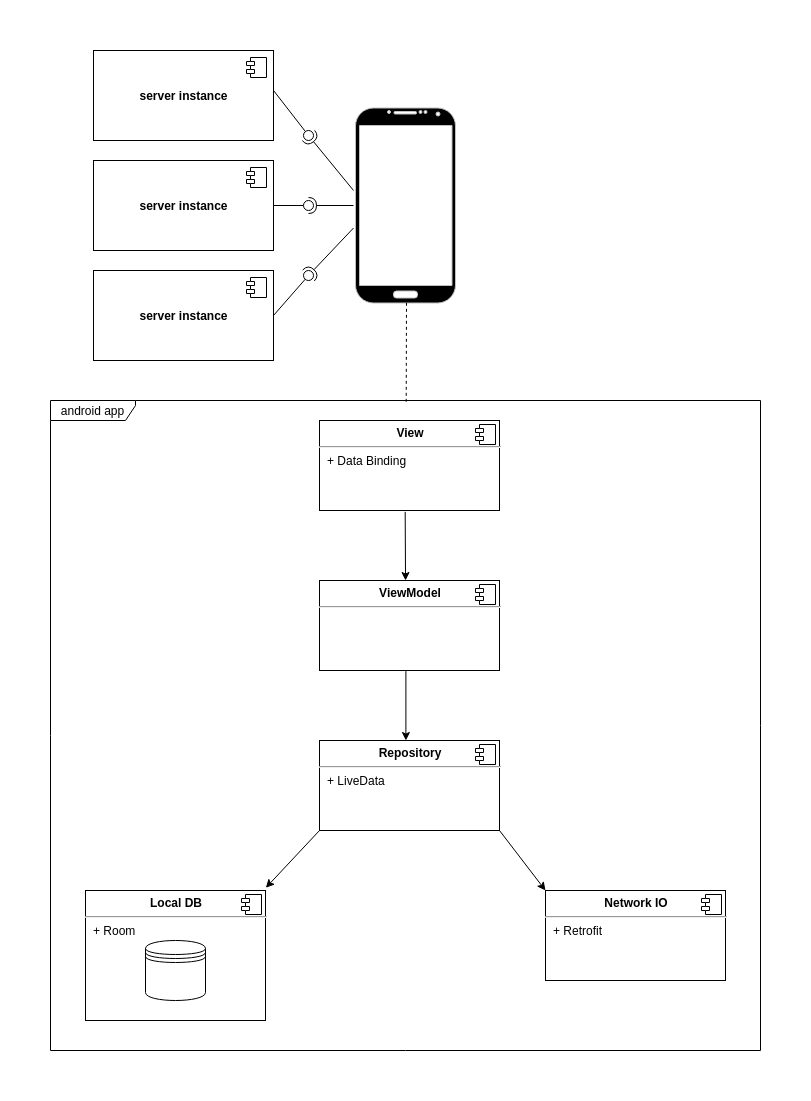
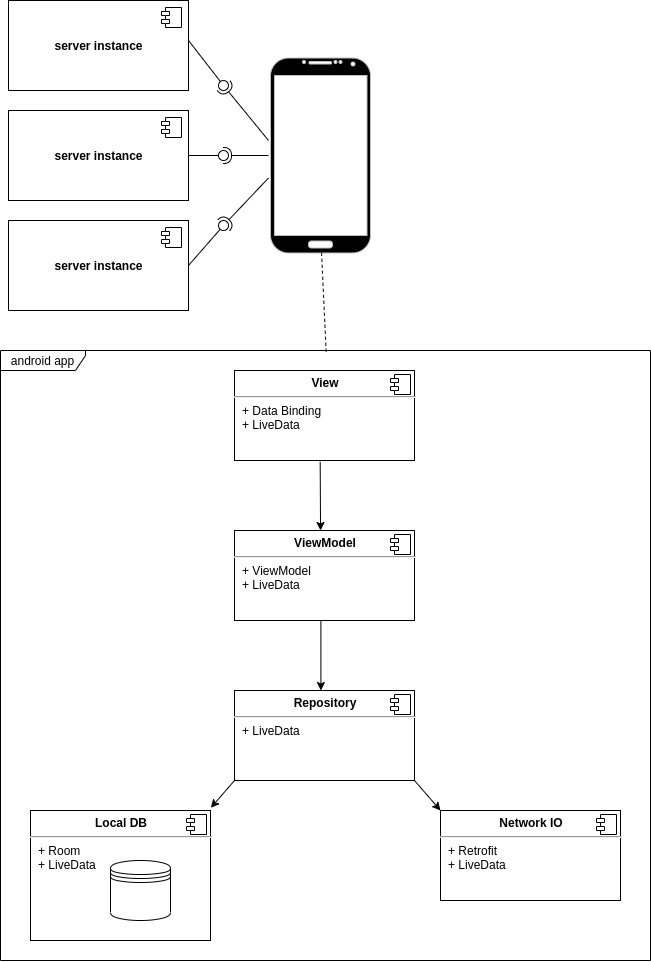
Big update

diff --git a/chapters/architecture.tex b/chapters/architecture.tex
@@ -1,30 +1,123 @@
+% https://www.youtube.com/watch?v=ugpC98LcNqA
+% https://www.youtube.com/watch?v=QrbhPcbZv0I
+
 \section{Software architecture patterns}
-//TODO
+Every non trivial software project should follow some architecture design.
+But why? You want your project to be always maintainable and expandable as much easily as possible.
+You want to modularize it, so that you can just take one part and exchange it without the need of rewriting the whole project.
+And for this reason, there are architecture patterns.
+I will describe three of them and explain my conclusion.
+
+All of these three patterns have one thing in common.
+They structure code into three main layers.
+The names of those layers are present in these pattern's names.
 
 \subsection{MVC}
-//TODO
+
+\begin{figure}\centering
+	\includegraphics[width=1\textwidth]{pics/patterns/bc-mvc2.png}
+	\caption[MVC]{Model View Controller}\label{fig:mvc}
+\end{figure}
+
+\textbf{Model View Controller}.
+View is responsible for displaying data, controller is responsible for getting the user input and model for storing data.
+The controller takes user input, it updates the model and then tells the view to update itself.
+
+Now we know, that if we choose this, it will be implemented in android.
+How does one do this? In the android world, the part of application responsible for displaying things is also responsible for dealing with user input.
+So you tweak the pattern so the view gets the user input, it sends it to the controller, the controller updates the model, then tells the view to update itself, based on the data from model.
+
+So both view and controller know the model, the view knows controller and controller knows view.
+That's pretty bad, you don't want this.
+That's high consistency and that is a thing you want to avoid, especially in the android world, where forgetting to remove a link can and will cause memory leaks.
+
+And what if you want to somehow transform the data for presentation?
+What part should do this presentation transformation, also known as UI logic?
+You don't want to push this to the view, because you want the UI logic also to be easily testable and you want to separate it from the appearance of the view.
+Controller can not posses it neither, because it doesn't supply any data to the view. So should you put it in the model? Absolutely not!
+Why should a part of the application, responsible for data storing, know how to display stuff?
 
 \subsection{MVP}
-//TODO
+
+\begin{figure}\centering
+	\includegraphics[width=0.7\textwidth]{pics/patterns/bc-mvp.png}
+	\caption[MVP]{Model View Presenter}\label{fig:mvp}
+\end{figure}
+
+Imagine the MVC and the UI logic problem.
+Now what if the view doesn't communicate with the model, but only with controller and the controller was also responsible for taking data from the model and supplying them to the view.
+Then you would be able to put UI logic to this new controller. Now we will call it presenter, instead of new controller.
+And that's what \textbf{Model View Presenter} is.
+
+But that means the presenter still holds a link to the view. You still need to write some repetitive code because of this.
+Second, why would the presenter should know, what parts of the view should be updated after the data changes?
 
 \subsection{MVVM}
-//TODO
 
-\subsection{Conclusion}
-//mvvm
-//TODO
+\begin{figure}\centering
+	\includegraphics[width=0.7\textwidth]{pics/patterns/bc-mvvm.png}
+	\caption[MVVM]{Model View ViewModel}\label{fig:mvvm}
+\end{figure}
 
-\section{Main components and libraries}
-//TODO
+\textbf{Model View Viewmodel}.
+We will borrow the MVP and tweak it a little. Currently the presenter knows the view and is executing it's methods when it needs to be updated.
+Let's rename presenter to viewmodel. It no longer knows it's view.
+Instead it provides some kind of stream and the view can observe the stream, so it can do whatever whenever it omits any data.
+
+So the view knows the viewmodel, can call it's methods on user input and observe it's data streams.
+The viewmodel knows model, observes it's data streams and omits them to the view.
+The view knows the viewmodel, the viewmodel knows the model and the model don't know any of them.
+
+\subsection{And the winner is ...}
+Our choice is MVVM. Not only it looks like the tip of the evolution, but Google even made some libraries to support it.
+
+\section{Main layers and libraries}
+We will go over the three main layers of the MVVM, add a fourth at the end and describe some libraries that will be used inside of them.
 
 \subsection{View}
-//TODO
+As I said before, the view is the layer responsible for displaying data. It's what I call a screen in functional requirements.
+The way it's implemented is through a combination of standard kotlin code and xml.
+The xml is like a skeleton and kotlin is like life. In xml, you specify the look and in kotlin, you can specify what data it should display, how to update itself and what to do with user input.
+
+For that, you have to somehow link or bind these two things (xml and kotlin) together.
+We will be using a library called Data Binding. It's better than nothing and compared to other solutions, like kotlin's synthetics, Data Binding offers more features and I personally think it looks clearer.
 
 \subsection{Viewmodel}
-//TODO
+Google has made some architecture components and one of them is exactly for viewmodel.
+It will be shame not to use it.
 
 \subsection{Repository}
-//TODO
+Repository will represent the model.
+It's a place responsible for maintaining data.
+Does the application need to download them, or load from cache?
+Do you need to get anything out of the application or get anything in it?
+You will ask the repository, also known as the one and the only source of truth.
 
-\subsection{DAO and network}
-//TODO
+\subsection{DAO and network IO}
+This will be the fourth layer.
+Every android app can run it's own LiteSQL database.
+Data Access Objects will be used to access data in in this database.
+There is a nice library for that called Room and we will be using it.
+Network IO layer will be responsible for communication with server instance API.
+We will be using Retrofit library for those API requests.
+Repository will be using both of those in order to maintain and organise data.
+
+\subsection{LiveData}
+LiveData is a library.
+It will be used in each layer.
+Previously I talked about observing some kind of stream.
+For this, you need some kind of observable variables and that's what LiveData is.
+It enables you to set some action to happen when the data changes.
+LiveData is now just some dumb stream, it only streams, when there is some observer living.
+It may sound silly, but for example, you don't need to update certain screen, when that screen is not visible.
+
+\section{Conclusion}
+
+\begin{figure}\centering
+	\includegraphics[width=1\textwidth]{pics/bc-architecture.png}
+	\caption[Architecture]{Diagram consisting of MVVM and server instances}\label{fig:architecture}
+\end{figure}
+
+For better perspective, here is a summarizing diagram: \ref{fig:architecture}
+
+The android device will communicate directly with multiple server instances. Network IO layer will be responsible for this communication. Repository will cache it using the Local DB layer and hand out data to the viewmodel. Viewmodel can do any UI logic that's needed and pass it to the view. All handing out or passing from any bottom layer to the one on top will be done through the observation of LiveData.

diff --git a/chapters/ui.tex b/chapters/ui.tex
@@ -1,0 +1,106 @@
+\section{The three main screens}
+From specifications, it's clear that we need at least one screen for execution history, one for pipelines and one for settings.
+On the android platform, there are multiple navigation designs.
+
+\subsection{Navigation drawer}
+The hamburger icon at the top left and sliding menu from left to the right.
+If you have 5 or more top level screens, or if you want to have some sort of hierarchical menu, this might be the right choice for you, but that's not our case. We have only three main screens.
+Also, with the increasing sizes of mobile phones and most people being right-handed, it's hard to reach the hamburger menu with your right thumb.
+
+\subsection{Bottom navigation}
+Three to five icons, optionally with text, at the bottom of the screen.
+It solves the annoying problem with short thumb, because you no longer need to reach the top left corner with it.
+Material design states, that the recommended number of links is three to five. That sounds good.
+For now, it is one possibility.
+% But another recommendation is to make it consistent in a way, that it is visible from all screens.
+
+\subsection{Tabs}
+Slidable tabs on top of the screen.
+Recommendation is at least two screens.
+You can click on tab names or you can just slide left or right in order to navigate between the screens.
+It is another possibility.
+
+\subsection{Conclusion}
+The choice is either bottom navigation or tabs.
+I'm choosing tabs, because I like the idea of having an option to slide between the screens, rather than to be forced to only click.
+
+%\begin{figure}
+%	\includegraphics[width=0.3\textwidth]{pics/xd/History.png}
+%	\caption[History]{History screen design}\label{fig:xdHistory}
+%	\includegraphics[width=0.3\textwidth]{pics/xd/Pipelines.png}
+%	\caption[Pipelines]{Pipelines screen design}\label{fig:xdPipelines}
+%	\includegraphics[width=0.3\textwidth]{pics/xd/Settings.png}
+%	\caption[Settings]{Settings screen design}\label{fig:xdSettings}
+%\end{figure}
+
+\begin{figure}\centering
+    \begin{minipage}[b]{0.32\textwidth}
+    	\includegraphics[width=\textwidth]{pics/xd/History.png}
+    	\caption[History]{History screen design}\label{fig:xdHistory}
+    \end{minipage}
+    \begin{minipage}[b]{0.32\textwidth}
+    	\includegraphics[width=\textwidth]{pics/xd/Pipelines.png}
+    	\caption[Pipelines]{Pipelines screen design}\label{fig:xdPipelines}
+    \end{minipage}
+    \begin{minipage}[b]{0.32\textwidth}
+    	\includegraphics[width=\textwidth]{pics/xd/Settings.png}
+    	\caption[Settings]{Settings screen design}\label{fig:xdSettings}
+    \end{minipage}
+\end{figure}
+
+\section{Another screens}
+
+\subsection{Edit server instance}
+While registering new server instance or editing an already registered one, the app needs the address for communication and some name for better organising.
+I will also let the user to add some description on the instance, so he doesn't need to store everything he wants to store about the instance in the server name.
+There could also be some option to ping the server (F-2.6) to verify the address and a way to cancel the registration/edit.
+Because of this all, I want to add another screen just for registering/editing server instance.
+
+\begin{figure}\centering
+    \begin{minipage}[b]{0.32\textwidth}
+    	\includegraphics[width=\textwidth]{pics/xd/Edit server instance.png}
+    	\caption[Edit server instance]{Edit server instance screen design}\label{fig:xdEditServerInstance}
+    \end{minipage}
+\end{figure}
+
+\subsection{Edit pipeline screen}
+As F-4.2 states, there have to be a screen for editing pipelines.
+Short description: This is the screen displaying pipeline components and drawing links between them.
+
+\begin{figure}\centering
+    \begin{minipage}[b]{0.32\textwidth}
+    	\includegraphics[width=\textwidth]{pics/xd/Create new pipeline.png}
+    	\caption[Create new pipeline dialog]{Create new pipeline dialog design}\label{fig:xdCreateNewPipelineDialog}
+    \end{minipage}
+    \begin{minipage}[b]{0.32\textwidth}
+    	\includegraphics[width=\textwidth]{pics/xd/Pipeline editor.png}
+    	\caption[Edit pipeline screen]{Edit pipeline screen design}\label{fig:xdPipelineEditor}
+    \end{minipage}
+\end{figure}
+
+
+
+\subsection{Edit component screen}
+Each component have it's own settings so there is a need for another screen.
+
+\begin{figure}\centering
+    \begin{minipage}[b]{0.32\textwidth}
+    	\includegraphics[width=\textwidth]{pics/xd/Edit component - configuration.png}
+    	\caption[Edit component screen 1]{Edit component screen 1 design}\label{fig:xdEditComponent1}
+    \end{minipage}
+    \begin{minipage}[b]{0.32\textwidth}
+    	\includegraphics[width=\textwidth]{pics/xd/Edit component - io.png}
+    	\caption[Edit component screen 2]{Edit component screen 2 design}\label{fig:xdEditComponent2}
+    \end{minipage}
+\end{figure}
+
+\begin{figure}\centering
+    \begin{minipage}[b]{0.32\textwidth}
+    	\includegraphics[width=\textwidth]{pics/xd/Edit unsupported component - configuration.png}
+    	\caption[Edit unsupported component screen 1]{Edit unsupported component screen 1 design}\label{fig:xdEditUnsupportedComponent1}
+    \end{minipage}
+    \begin{minipage}[b]{0.32\textwidth}
+    	\includegraphics[width=\textwidth]{pics/xd/Edit unsupported component - io.png}
+    	\caption[Edit unsupported component screen 2]{Edit unsupported component screen 2 design}\label{fig:xdEditUnsupportedComponent2}
+    \end{minipage}
+\end{figure}

diff --git a/chapters/re.tex b/chapters/re.tex
@@ -1,5 +1,8 @@
+Requirements engineering is a process to determine things, the desired system will consist of. This process itself consists of four stages.
+
 \section{Elicitation}
-The first faze of requirements engineering is elicitation. It's the faze of gathering information. For me, it's these two lines:
+The first faze of requirements engineering is elicitation. It's the faze of gathering information.
+For us, it's these two lines:
 \begin{itemize}
     \item The student will design, implement, document and evaluate an Android-based mobile application serving as an alternative client to the current LinkedPipes ETL frontend.
     \item The application will provide pipeline and execution management and notification capabilities for multiple LinkedPipes ETL instances.
@@ -25,7 +28,7 @@ Analysis faze is all about making sense from elicitation. It's a systematic appr
 %	\end{tabularx}
 %\end{table}
 \subsection{Use cases}
-One good method of achieving this is by describing some use cases. Each use case is something that user expects from the system. I will also create scenarios for the non trivial ones. Scenario is an array of tasks user should do in order to go through the use case.
+One good method of achieving this is by describing some use cases. Each use case is something that user expects from the system. We will also create scenarios for the non trivial ones. Scenario is an array of tasks user should do in order to go through the use case.
 
 \subsubsection*{UC-1: Get overview of executions in particular server instance}
 Enables user to see what pipelines were executed in chronological order from specific server instance.
@@ -46,8 +49,16 @@ Enables user to view pipelines from all the server instances.
 \subsubsection*{UC-9: Be notified on execution finish}
 User has the option to be notified about execution completion.
 
+%\subsubsection*{Diagram}
+\begin{figure}\centering
+	\includegraphics[width=0.9\textwidth]{pics/bc-uc.png}
+	\caption[Use cases]{Diagram consisting of use cases}\label{fig:uc}
+\end{figure}
+
+%For better perspective, here is a diagram of all these use cases: \ref{fig:uc}
+
 \subsection{Scenarios}
-Now I can create some scenarios for the user.
+Now we can create some scenarios for the user.
 
 \subsubsection*{SC-1.1: Get overview of executions in particular server instance}
 User opens execution history screen and selects what server instance executions he wants to see.
@@ -122,4 +133,4 @@ User can have an option in settings to use light or dark theme, or use system de
 User can test if the server address is correct
 
 \section{Validation}
-//TODO
+In this stage I went through all of previous stages, corrected some typos. I gave everything a second look, to verify everything is somehow testable.

diff --git a/BP_Palecek_David_2020.tex b/BP_Palecek_David_2020.tex
@@ -54,34 +54,57 @@
 
 \begin{introduction}
 	%sem napište úvod Vaší práce
+	//TODO
 \end{introduction}
 
-\chapter{Work goal}
-\include{chapters/goal}
+%\chapter{Work goal}
+%\include{chapters/goal}
+%
+%%\include{chapters/templateHelp}
+%
+%\chapter{Requirements engineering}
+%\include{chapters/re}
+%
+%\chapter{Existing solutions}
+%\include{chapters/existingSolutions}
+%
+%\chapter{Design}
+%\include{chapters/ui}
+%\include{chapters/architecture}
+%
+%%\chapter{Realization}
+%\chapter{Implementation}
+%\include{chapters/realization}
+%
+%\chapter{Deployment}
+%\include{chapters/deployment}
 
-%\include{chapters/templateHelp}
+\chapter{Work goal}
+\input{chapters/goal}
+
+%\input{chapters/testing}
+%\input{chapters/templateHelp}
 
 \chapter{Requirements engineering}
-\include{chapters/re}
+\input{chapters/re}
 
 \chapter{Existing solutions}
-\include{chapters/existingSolutions}
+\input{chapters/existingSolutions}
 
 \chapter{Design}
-\include{chapters/design}
-
-\chapter{Architecture}
-\include{chapters/architecture}
+\input{chapters/ui}
+\input{chapters/architecture}
 
 %\chapter{Realization}
 \chapter{Implementation}
-\include{chapters/realization}
+\input{chapters/realization}
 
 \chapter{Deployment}
-\include{chapters/deployment}
+\input{chapters/deployment}
 
 \begin{conclusion}
 	%sem napište závěr Vaší práce
+	//TODO
 \end{conclusion}
 
 \bibliographystyle{csn690}

diff --git a/chapters/existingSolutions.tex b/chapters/existingSolutions.tex
@@ -3,7 +3,12 @@ If there already exists a perfect solution which suits my requirements, it doesn
 \section{Description of existing solutions}
 
 \subsection{Responsive web app}
-It works on any device, not just android devices. Users don't have to download it, which also means they don't have to update it. The responsive web app only works with one server instance. On an android device, it responds slower to screen rotation and animations feel laggy. Even if you don't want to execute anything, just view history or list pipelines, you have to be online. It is also browser dependent.
+It works on any device, not just android devices.
+Users don't have to download it, which also means they don't have to update it.
+The responsive web app only works with one server instance.
+On an android device, it responds slower to screen rotation and animations feel laggy.
+Even if you don't want to execute anything, just view history or list pipelines, you have to be online.
+It is also browser dependent.
 
 \section{Summary of existing solutions}
 

diff --git a/chapters/goal.tex b/chapters/goal.tex
@@ -1,1 +1,3 @@
+Our goal is to pitch an android client for the ETL LinkedPipes system as an alternative to opening a web page in mobile browser.
+
 //TODO
